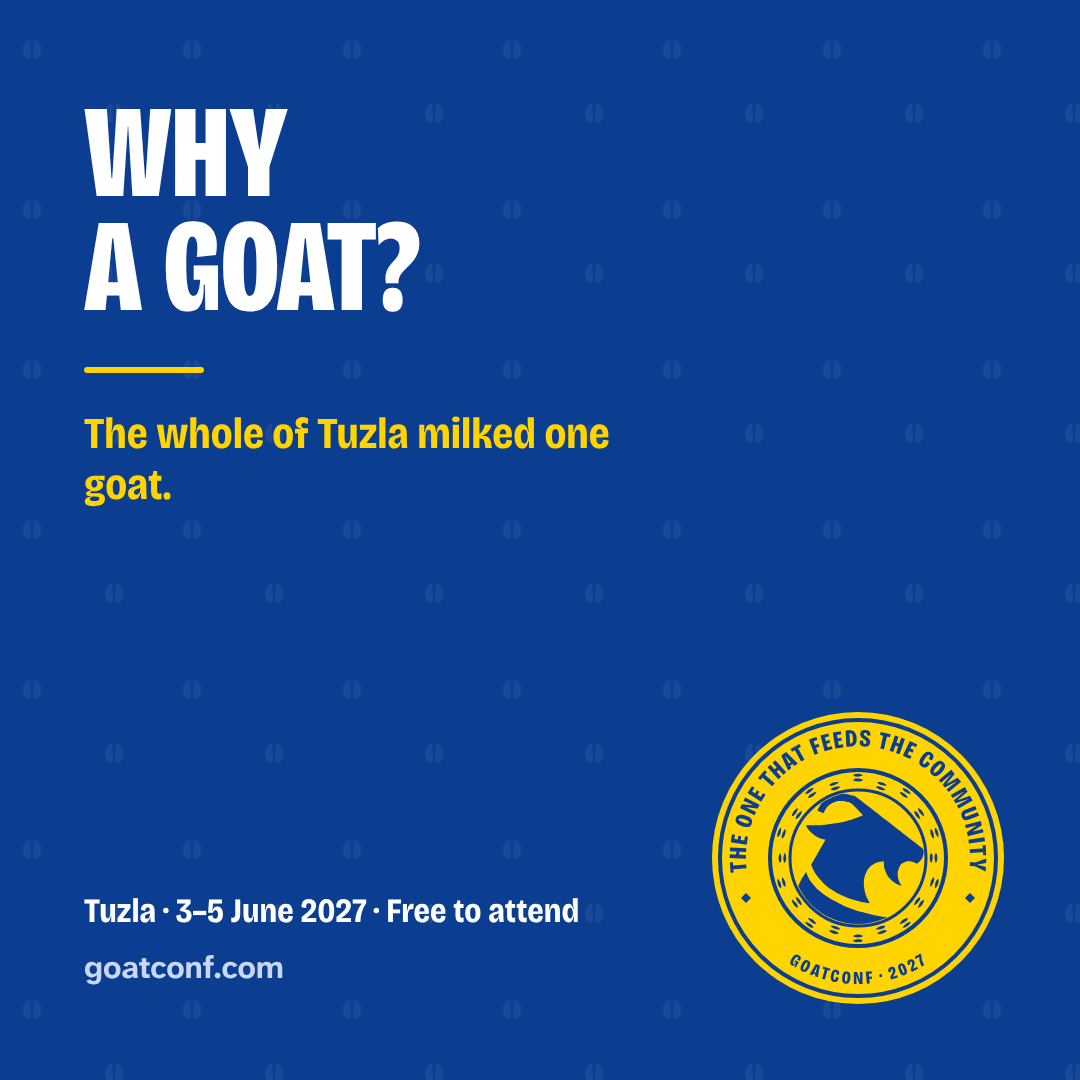
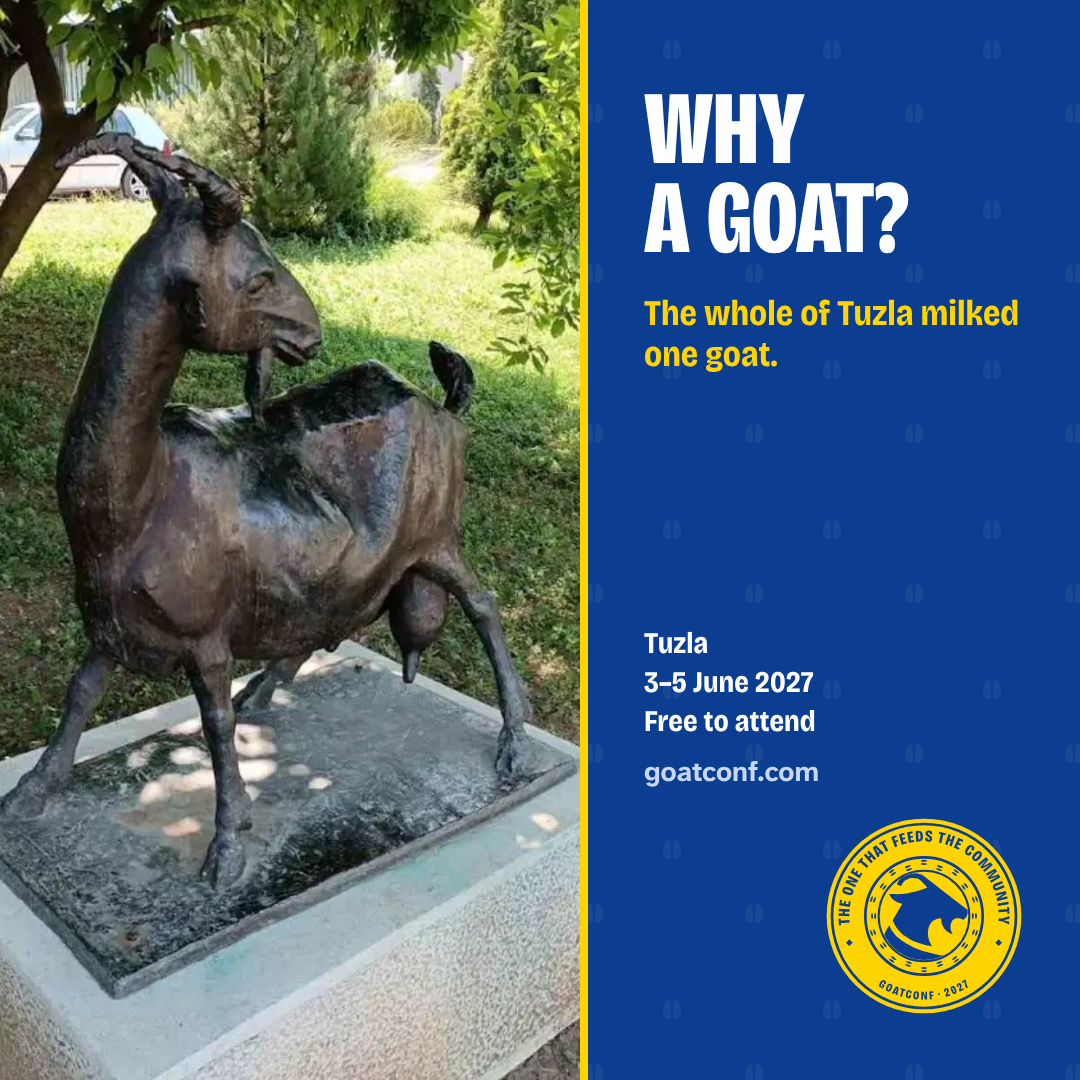
drumbeat: the real goat statue on the week 6 "Why a goat" cards
The "Why a goat" cards were lettering and the seal. They now show the
organiser's own photo of the goat statue, with no credit on their call.
The text says the goat has its own statue, in front of Hotel Tuzla.

- shareables: the post moves to the photo posts; an upright photo can
  stand on the left at full height on the square card, so the statue
  keeps its horns and hooves. The other photo posts render as before.
- the photo and its record under assets/images/organiser/, its card copy
  in site/img/
- drumbeat-2026, tuzla-images and the home page record the change

Sources: sources/conversations/2026-11-21--org--goat-statue-photo.md
Restricted paths: files/tools/shareables.py

diff --git a/files/tools/shareables.py b/files/tools/shareables.py
@@ -201,7 +201,6 @@ POSTS = {
     "add-something": ("Propose<br>an event", "A workshop, a meetup, a dinner, a hike: run it around GoatConf."),
     "first-speakers": ("The first<br>speakers<br>are here", "Eight speakers so far, each with an hour at IPI Academy on 3 or 4 June."),
     # The drumbeat to June 2027 (wiki/org/outreach/drumbeat.md)
-    "why-a-goat": ("Why<br>a goat?", "The whole of Tuzla milked one goat."),
     "your-first-talk": ("Your<br>first talk?", "First-time speakers are welcome. A strong idea counts for more than a famous name."),
     "see-you-in-june": ("See you<br>in June", "Two days of talks in Tuzla, then a day for the community."),
     "not-only-engineers": ("Not only<br>engineers", "AI/ML, data, UX/UI, product, research, business, leadership: for people who build and sell software."),
@@ -236,16 +235,37 @@ PHOTO_POSTS = {
     # The Tuesday Tuzla posts (wiki/org/outreach/drumbeat.md): the two statues facing each other, the Korzo behind.
     "mesa-and-ismet": ("Meet at Meša and Ismet", "The writer and the painter on the Korzo: Tuzla's meeting point.",
                        "img/korzo-mesa-and-ismet.jpg", "", ("50% 60%", "40% 50%")),
+    # The drumbeat's week 6 post: the goat statue in front of Hotel Tuzla, the organiser's own photo, no credit.
+    "why-a-goat": ("Why<br>a goat?", "The whole of Tuzla milked one goat.", "img/tuzla-goat-statue.jpg", "",
+                   ("47% 50%", "50% 50%")),
 }
+# Photos taller than wide, whose subject a band across the square card would cut: on the square card they stand on
+# the left at full height, as on the wide card.
+UPRIGHT = {"why-a-goat"}
 
 
 def photo_post(w: int, h: int, title: str, line: str, img: str, credit: str, square: bool,
-               focus: tuple[str, str] = ("50% 50%", "50% 50%")) -> str:
-    """A post with a photo: the photo on top (square) or on the left (wide), its credit on it if it has one, the words
-    beside. A title without set line breaks takes the card's full width and wraps into even lines."""
+               focus: tuple[str, str] = ("50% 50%", "50% 50%"), upright: bool = False) -> str:
+    """A post with a photo: the photo on top (square) or on the left (wide, and square when `upright`), its credit on
+    it if it has one, the words beside. A title without set line breaks takes the card's full width and wraps into
+    even lines."""
     src = (SITE / img).as_uri()
     cred = (f'<div style="position:absolute; left:18px; bottom:14px; font-size:20px; font-weight:700; '
             f'text-shadow:0 1px 4px rgb(0 0 0 / .8)">{esc(credit)}</div>') if credit else ""
+    if square and upright:
+        return page(w, h, f"""
+<div style="position:absolute; left:0; top:0; width:580px; height:{h}px; overflow:hidden">
+  <img src="{src}" style="width:100%; height:100%; object-fit:cover; object-position:{focus[0]}">{cred}</div>
+<div class="rule" style="position:absolute; left:580px; top:0; width:8px; height:{h}px; border-radius:0"></div>
+<div style="position:absolute; left:644px; top:84px; right:56px">
+  <div class="word" style="font-size:104px; text-wrap:balance">{title}</div>
+  <div class="sub" style="font-size:36px; line-height:1.15; margin-top:30px">{line}</div>
+</div>
+<div style="position:absolute; left:644px; bottom:290px; right:56px">
+  <div class="sub" style="font-size:30px; line-height:1.3; color:#fff">{FACTS.replace(" · ", "<br>")}</div>
+  <div class="url" style="font-size:28px; margin-top:12px">{URL}</div>
+</div>
+{seal(200, "right:56px; bottom:64px")}""")
     if square:
         return page(w, h, f"""
 <div style="position:absolute; left:0; top:0; width:{w}px; height:540px; overflow:hidden">
@@ -445,7 +465,8 @@ def jobs() -> dict[str, tuple[int, int, str]]:
         out[f"post-{key}-square.png"] = (1080, 1080, post(1080, 1080, title, line, True))
         out[f"post-{key}-wide.png"] = (1200, 675, post(1200, 675, title.replace("<br>", " "), line, False))
     for key, (title, line, img, credit, *focus) in PHOTO_POSTS.items():
-        out[f"post-{key}-square.png"] = (1080, 1080, photo_post(1080, 1080, title, line, img, credit, True, *focus))
+        out[f"post-{key}-square.png"] = (1080, 1080, photo_post(1080, 1080, title, line, img, credit, True, *focus,
+                                                                upright=key in UPRIGHT))
         out[f"post-{key}-wide.png"] = (1200, 675, photo_post(1200, 675, title, line, img, credit, False, *focus))
     talks = speakers.sessions_by_speaker()
     for slug, (meta, _) in speakers.speakers().items():

diff --git a/files/wiki/org/outreach/drumbeat-2026.md b/files/wiki/org/outreach/drumbeat-2026.md
@@ -7,6 +7,7 @@ confidence: medium
 affects:
   - org
 sources:
+  - sources/conversations/2026-11-21--org--goat-statue-photo.md
   - sources/conversations/2026-11-21--org--ruby-line-a-wider-community.md
   - sources/conversations/2026-11-17--org--roy-spotlight-published.md
   - sources/conversations/2026-11-03--org--roy-spotlight-rewrite.md
@@ -312,22 +313,23 @@ The posts in the order they go out. The calendar, the rules and what to do when 
 ### Sat 21 Nov 2026, week 6: Why a goat
 
 - **State:** drafted
+- **Photo:** the goat statue, the organiser's own photo, no credit on their call; the square card stands it on the left at full height (source: sources/conversations/2026-11-21--org--goat-statue-photo.md).
 - **Image:** [`post-why-a-goat-square.png`](https://goatconf.com/share/post-why-a-goat-square.png) (LinkedIn, Mastodon), [`post-why-a-goat-wide.png`](https://goatconf.com/share/post-why-a-goat-wide.png) (X, Bluesky)
 - **LinkedIn:**
 
   > Why is it called GoatConf?
   >
-  > When Austria-Hungary ruled Tuzla, it ordered every goat gone. One man hid his. Word got around, and soon the whole town was buying milk and cheese from that one goat. People in Bosnia and Herzegovina still say it: the whole of Tuzla milked one goat.
+  > When Austria-Hungary ruled Tuzla, it ordered every goat gone. One man hid his. Word got around, and soon the whole town was buying milk and cheese from that one goat. People in Bosnia and Herzegovina still say it: the whole of Tuzla milked one goat. Today the goat has its own statue, in front of Hotel Tuzla.
   >
   > That goat is our mark: the one that feeds the community. It first appeared as the mascot of EuRuKo 2024, the first Ruby conference in Bosnia and Herzegovina. Now it feeds a wider community: every language and framework is welcome at GoatConf, Ruby included.
   >
   > goatconf.com
 
-- **Short** (167 characters):
+- **Short** (214 characters):
 
-  > Why GoatConf? In Tuzla, when goats were banned, one man hid his, and that one goat fed the whole town. Our seal says it: the one that feeds the community. goatconf.com
+  > Why GoatConf? In Tuzla, when goats were banned, one man hid his, and that one goat fed the whole town. Today it has a statue in front of Hotel Tuzla. Our seal says it: the one that feeds the community. goatconf.com
 
-  Sources: sources/web/funding/euruko-2024-why-the-goat.md, sources/web/tuzla/mondo-tuzlanska-koza-legenda.md, sources/conversations/2026-10-07--org--saying-confirmed.md, sources/conversations/2026-10-18--org--not-only-about-ruby.md, sources/conversations/2026-11-21--org--ruby-line-a-wider-community.md.
+  Sources: sources/web/funding/euruko-2024-why-the-goat.md, sources/web/tuzla/mondo-tuzlanska-koza-legenda.md, sources/conversations/2026-10-07--org--saying-confirmed.md, sources/conversations/2026-10-18--org--not-only-about-ruby.md, sources/conversations/2026-11-21--org--ruby-line-a-wider-community.md, sources/conversations/2026-11-21--org--goat-statue-photo.md.
 
 ### Tue 24 Nov 2026, Tuesday: Speaker: Carmine Paolino
 

diff --git a/files/wiki/org/tuzla-images.md b/files/wiki/org/tuzla-images.md
@@ -2,11 +2,12 @@
 title: "Images of Tuzla for GoatConf: free to use, ask first, and gaps"
 kind: reference
 status: living
-updated: 2026-11-07
+updated: 2026-11-21
 confidence: medium
 depends_on:
   - org/tuzla.md
 sources:
+  - sources/conversations/2026-11-21--org--goat-statue-photo.md
   - sources/conversations/2026-11-07--org--mesa-and-ismet-photo.md
   - sources/conversations/2026-10-19--org--site-review-decisions.md
   - sources/conversations/2026-10-13--org--food-photos-one-by-one.md
@@ -276,8 +277,9 @@ in June light, morning or late afternoon:
 1. **The goat statue,** in front of Hotel Tuzla at ZAVNOBiH-a 13
    (`sources/web/tuzla/mondo-tuzlanska-koza-legenda.md`,
    `sources/web/tuzla/cvent-hotel-tuzla-address.md`). Commons has no photo
-   of it. Take a close-up, a wide shot with the hotel, and one with a person
-   for scale. Note the sculptor's name from any plaque.
+   of it; since 2026-11-21 the organiser's own photo covers it (see below).
+   Still wanted: a close-up, a wide shot with the hotel, and one with a
+   person for scale. Note the sculptor's name from any plaque.
 2. **IPI Academy,** the façade at Kulina bana 2 and the hall, empty and in
    use. `assets/images/tuzla/kulina-bana-street.jpg` shows only the avenue.
 3. **Tuzla from above:** a view from Ilinčica or another hill over the
@@ -349,3 +351,15 @@ CC BY-SA 4.0), and both statues in one frame by Goran Necin on Flickr
 (2013-06-27, CC BY-SA 2.0), with a bank sign and a beer poster behind. Both
 statues are modern sculptures, so the freedom of panorama note above applies
 to every photo of them.
+
+## The goat statue, added 2026-11-21
+
+The organiser took a photo of the goat statue: the goat standing on a stone
+plinth on a lawn under trees in summer, seen from the front left. It is their
+own, free for GoatConf to use, and on their call it carries no credit. It is
+`assets/images/organiser/tuzla-goat-statue.jpg`, with its record beside it,
+and `site/img/tuzla-goat-statue.jpg`, which only the post cards use; the week
+6 post "Why a goat" shows it (source: sources/conversations/2026-11-21--org--goat-statue-photo.md). The statue is a
+modern sculpture, so the note on freedom of panorama above applies: fine for
+the site and free posts, but ask the sculptor or the city before it goes on
+anything sold.

diff --git a/files/wiki/index.md b/files/wiki/index.md
@@ -18,6 +18,7 @@ what is proposed is on the [pitches hub](org/pitches/index.md).
 ## What changed
 
 <!-- home-section: filled; maintained-by: /shape; updated: 2026-10-24 -->
+- **2026-11-21**: **The real goat statue on the "Why a goat" cards.** The week 6 post shows the organiser's own photo of the statue, no credit, and its text says the goat has a statue in front of Hotel Tuzla; on the square card the photo stands on the left at full height ([the drumbeat](org/outreach/drumbeat-2026.md); [images of Tuzla](org/tuzla-images.md); source: sources/conversations/2026-11-21--org--goat-statue-photo.md).
 - **2026-11-21**: **The Ruby line, said positively.** "Not only about Ruby or any one stack" becomes "Now it feeds a wider community: every language and framework is welcome at GoatConf, Ruby included", in the week 6 post "Why a goat" and on the home page ([the drumbeat](org/outreach/drumbeat-2026.md); source: sources/conversations/2026-11-21--org--ruby-line-a-wider-community.md).
 - **2026-11-07**: **The home page tells the attendee's story first.** Days, speakers, Tuzla and food, then a Register band, then the doors for speakers, hosts and supporters. On phones every speaker card and dish stays, with its goat ([website and registration](org/prds/website-and-registration.md); sources: sources/conversations/2026-11-07--org--home-page-order.md, sources/conversations/2026-11-07--org--home-goats-stay.md).
 - **2026-11-07**: **Register from the speaker pages.** Every speaker's page has "Meet [first name] in person" under their session, the speakers page closes on "Meet them in person" with a way to propose a session too, and the session text reads at body size ([the CFP PRD](org/prds/cfp-and-speakers.md); sources: sources/conversations/2026-11-07--org--speakers-register-cta.md, sources/conversations/2026-11-07--org--meet-them-in-person.md).

diff --git a/files/sources/conversations/2026-11-21--org--goat-statue-photo.md b/files/sources/conversations/2026-11-21--org--goat-statue-photo.md
@@ -1,0 +1,17 @@
+---
+title: "The organiser's photo of the goat statue, for the week 6 post"
+date: 2026-11-21
+kind: conversation
+---
+
+On Saturday 21 November 2026, told that the week 6 post "Why a goat" was the one to go out that day, the organiser asked, verbatim:
+
+> Should we use an image of the Tuzla goat statue
+
+Offered the painted sticker of the statue, they wrote, verbatim:
+
+> No, I mean the real statue
+
+The agent found no usable photo: the brain lists the statue as its first image gap, Wikimedia Commons has none, and the tourist board's city guide names "Tuzla's goat" as a photo stop without an image that can be reused. The organiser then shared a photo of the statue: the goat standing on a stone plinth on a lawn under trees, in summer, a parked car behind.
+
+Asked where the photo is from and whether GoatConf can post it, they chose "I took it, no credit", described as: it's your photo; use it freely with no credit on the card. Asked whether it replaces today's card or goes in a later post, they chose "Today's card (Recommended)", described as: remake the "Why a goat" square and wide cards with the statue photo, and add a line to the text that the statue stands in front of Hotel Tuzla.
